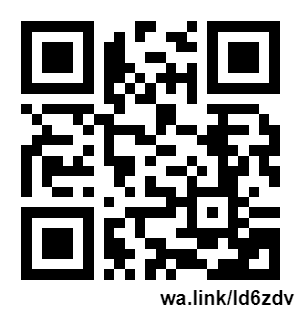
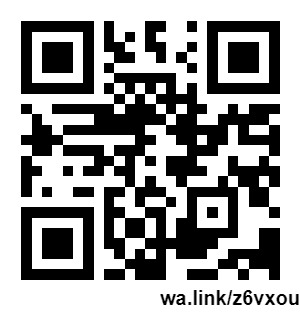
fix: wrong informations

Changed region(s): [[0.06, 0.0625, 0.93, 0.875], [0.75, 0.9062, 1.0, 0.9688]]

diff --git a/src/app/_components/contact/contact.component.html b/src/app/_components/contact/contact.component.html
@@ -60,8 +60,8 @@
                                 
                                 <p>
                                     <a href="
-                                    https://wa.link/ld6zdv">
-                                    https://wa.link/ld6zdv
+                                    https://wa.link/z6vxou">
+                                    https://wa.link/z6vxou
                                 </a>
                                 </p>
                                 <img class="img-fluid" loading="lazy" src="assets/images/qrcode.png" alt="QRCode do link para falar com Gustavo Kreischer de Almeida">

diff --git a/src/app/_components/projects/projects.component.html b/src/app/_components/projects/projects.component.html
@@ -166,7 +166,7 @@
               <p class="text-center">
                 <a
                     class="fs-5"
-                    href="https://msk.gkdeveloper.com.br/"
+                    href="https://gkreischer.github.io/AppMarket/#/home"
                     target="_blank"
                   >
                   https://gkreischer.github.io/AppMarket/#/home</a
